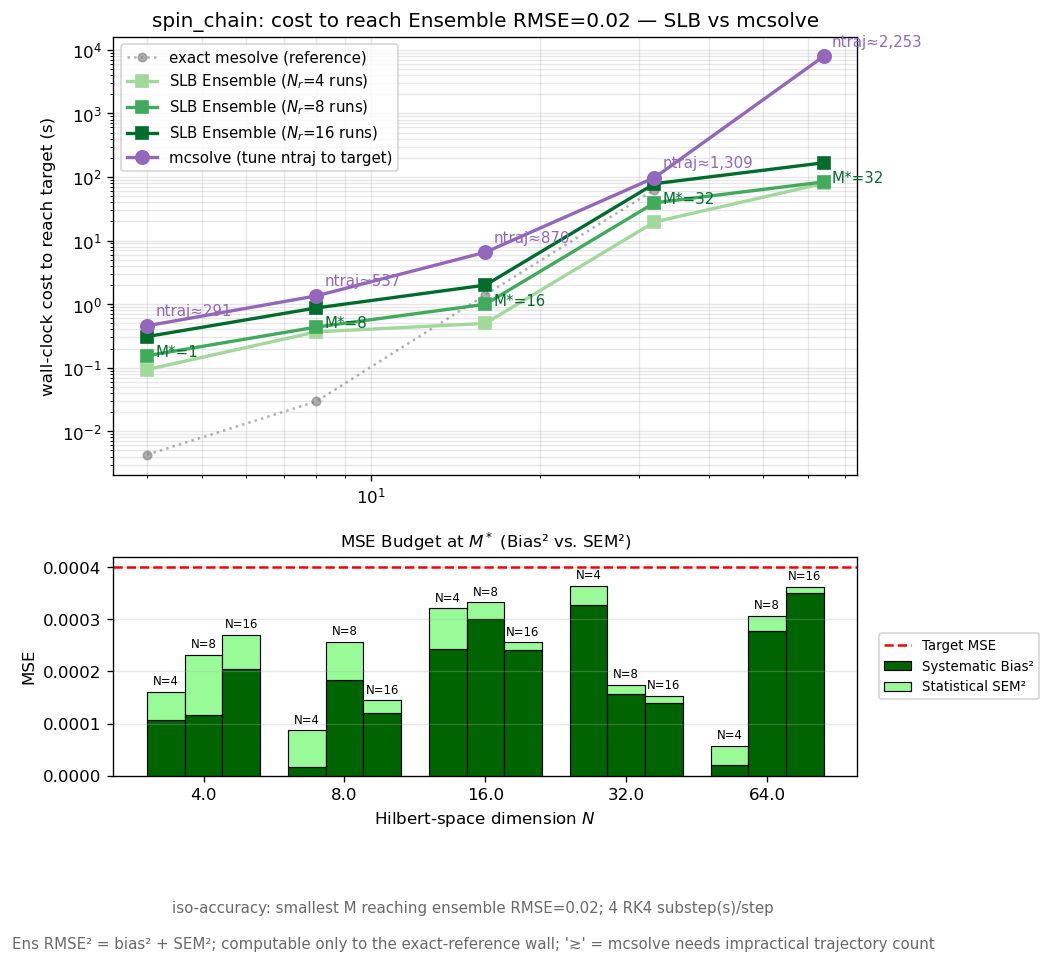
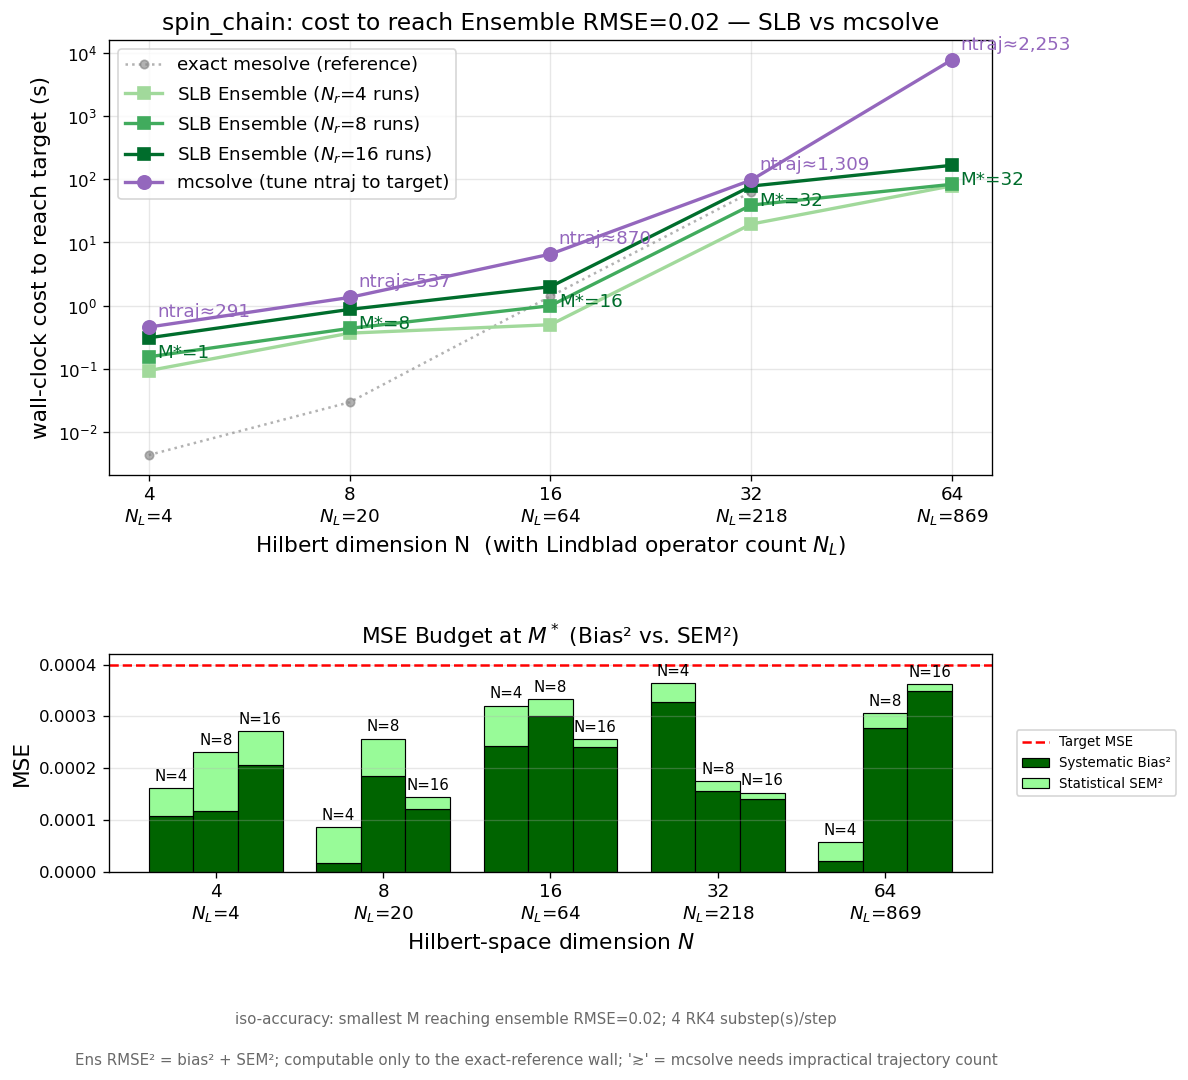
R2 single-run headline + inverted suffix scheme, larger fonts and panel gap; R1 toggle guard + larger decomposition figures; R3 drop lower-is-better + fonts; prose synced; restore schematics

Changed region(s): [[0.0305, 0.0, 0.9143, 0.529], [0.0, 0.5602, 1.0, 0.9025], [0.0, 0.9336, 0.8838, 0.9959]]

diff --git a/benchmarks/plot_isocost_vs_dim.py b/benchmarks/plot_isocost_vs_dim.py
@@ -108,6 +108,7 @@ def derive(doc, target, n_runs_list, est_type):
     points = doc["points"]
     out = {
         "dims": as_array([p["dim"] for p in points]),
+        "n_ls": as_array([p["n_l"] for p in points]),
         "full_cost": as_array([p["t_full"] for p in points]),
         "slb": {}, "mc_cost": [], "mc_star": [], "mc_ok": [],
     }
@@ -135,11 +136,12 @@ def derive(doc, target, n_runs_list, est_type):
 def figure(name, out, target, substeps, n_runs_list, est_type):
     plt.switch_backend("Agg")
     d = out["dims"]
+    n_ls = out["n_ls"]
     if len(d) == 0: return
 
     fig, (ax_main, ax_bar) = plt.subplots(
-        nrows=2, ncols=1, figsize=(8, 8), 
-        gridspec_kw={'height_ratios': [2, 1], 'hspace': 0.25}
+        nrows=2, ncols=1, figsize=(9.5, 9), 
+        gridspec_kw={'height_ratios': [2, 1], 'hspace': 0.55}
     )
 
     # --- TOP PANEL: Main Scaling Plot ---
@@ -164,17 +166,23 @@ def figure(name, out, target, substeps, n_runs_list, est_type):
     for x, y, m, ok in zip(d, out["slb"][n_max]["cost"], out["slb"][n_max]["mstar"],
                            out["slb"][n_max]["ok"]):
         ax_main.annotate(f"M*={int(m)}", (x, y), xytext=(5, -12), textcoords="offset points", 
-                         fontsize=9, color=greens.get(n_max, "tab:green"))
+                         fontsize=11, color=greens.get(n_max, "tab:green"))
         
     for x, y, nt, ok in zip(d, out["mc_cost"], out["mc_star"], out["mc_ok"]):
         label = f"ntraj≈{int(round(nt)):,}" if (ok and np.isfinite(nt)) else f"ntraj≳{NTRAJ_EXTRAP_MAX:,}"
         ax_main.annotate(label, (x, y), xytext=(5, 6), textcoords="offset points", 
-                         fontsize=9, color="tab:purple")
+                         fontsize=11, color="tab:purple")
 
-    ax_main.set_ylabel("wall-clock cost to reach target (s)")
+    ax_main.set_ylabel("wall-clock cost to reach target (s)", fontsize=13)
+    ax_main.set_xlabel("Hilbert dimension N  (with Lindblad operator count $N_L$)",
+                       fontsize=13)
+    ax_main.set_xticks(d)
+    ax_main.set_xticklabels([f"{int(dd)}\n" + rf"$N_L$={int(nl)}"
+                             for dd, nl in zip(d, n_ls)], fontsize=11)
+    ax_main.minorticks_off()
     est_label_cap = "Ensemble" if est_type == "ensemble" else "Single-Run"
-    ax_main.set_title(f"{name}: cost to reach {est_label_cap} RMSE={target} — SLB vs mcsolve")
-    ax_main.legend(loc="upper left", fontsize=9)
+    ax_main.set_title(f"{name}: cost to reach {est_label_cap} RMSE={target} — SLB vs mcsolve", fontsize=14)
+    ax_main.legend(loc="upper left", fontsize=11)
     ax_main.grid(True, which="both", alpha=0.3)
 
 
@@ -203,13 +211,14 @@ def figure(name, out, target, substeps, n_runs_list, est_type):
             total_height = bias + noise
             y_offset = (target**2) * 0.02
             ax_bar.text(x_positions[i] + offsets[idx], total_height + y_offset, f"N={n}", 
-                        ha='center', va='bottom', fontsize=7, color='black')
+                        ha='center', va='bottom', fontsize=9, color='black')
 
     ax_bar.set_xticks(x_positions)
-    ax_bar.set_xticklabels([str(dim) for dim in d])
-    ax_bar.set_title(rf"MSE Budget at $M^*$ (Bias² vs. {noise_str})", fontsize=10)
-    ax_bar.set_xlabel(r"Hilbert-space dimension $N$")
-    ax_bar.set_ylabel("MSE")
+    ax_bar.set_xticklabels([f"{int(dd)}\n" + rf"$N_L$={int(nl)}"
+                            for dd, nl in zip(d, n_ls)], fontsize=11)
+    ax_bar.set_title(rf"MSE Budget at $M^*$ (Bias² vs. {noise_str})", fontsize=13)
+    ax_bar.set_xlabel(r"Hilbert-space dimension $N$", fontsize=13)
+    ax_bar.set_ylabel("MSE", fontsize=13)
     ax_bar.grid(True, axis='y', alpha=0.3)
     
     target_mse = target**2
